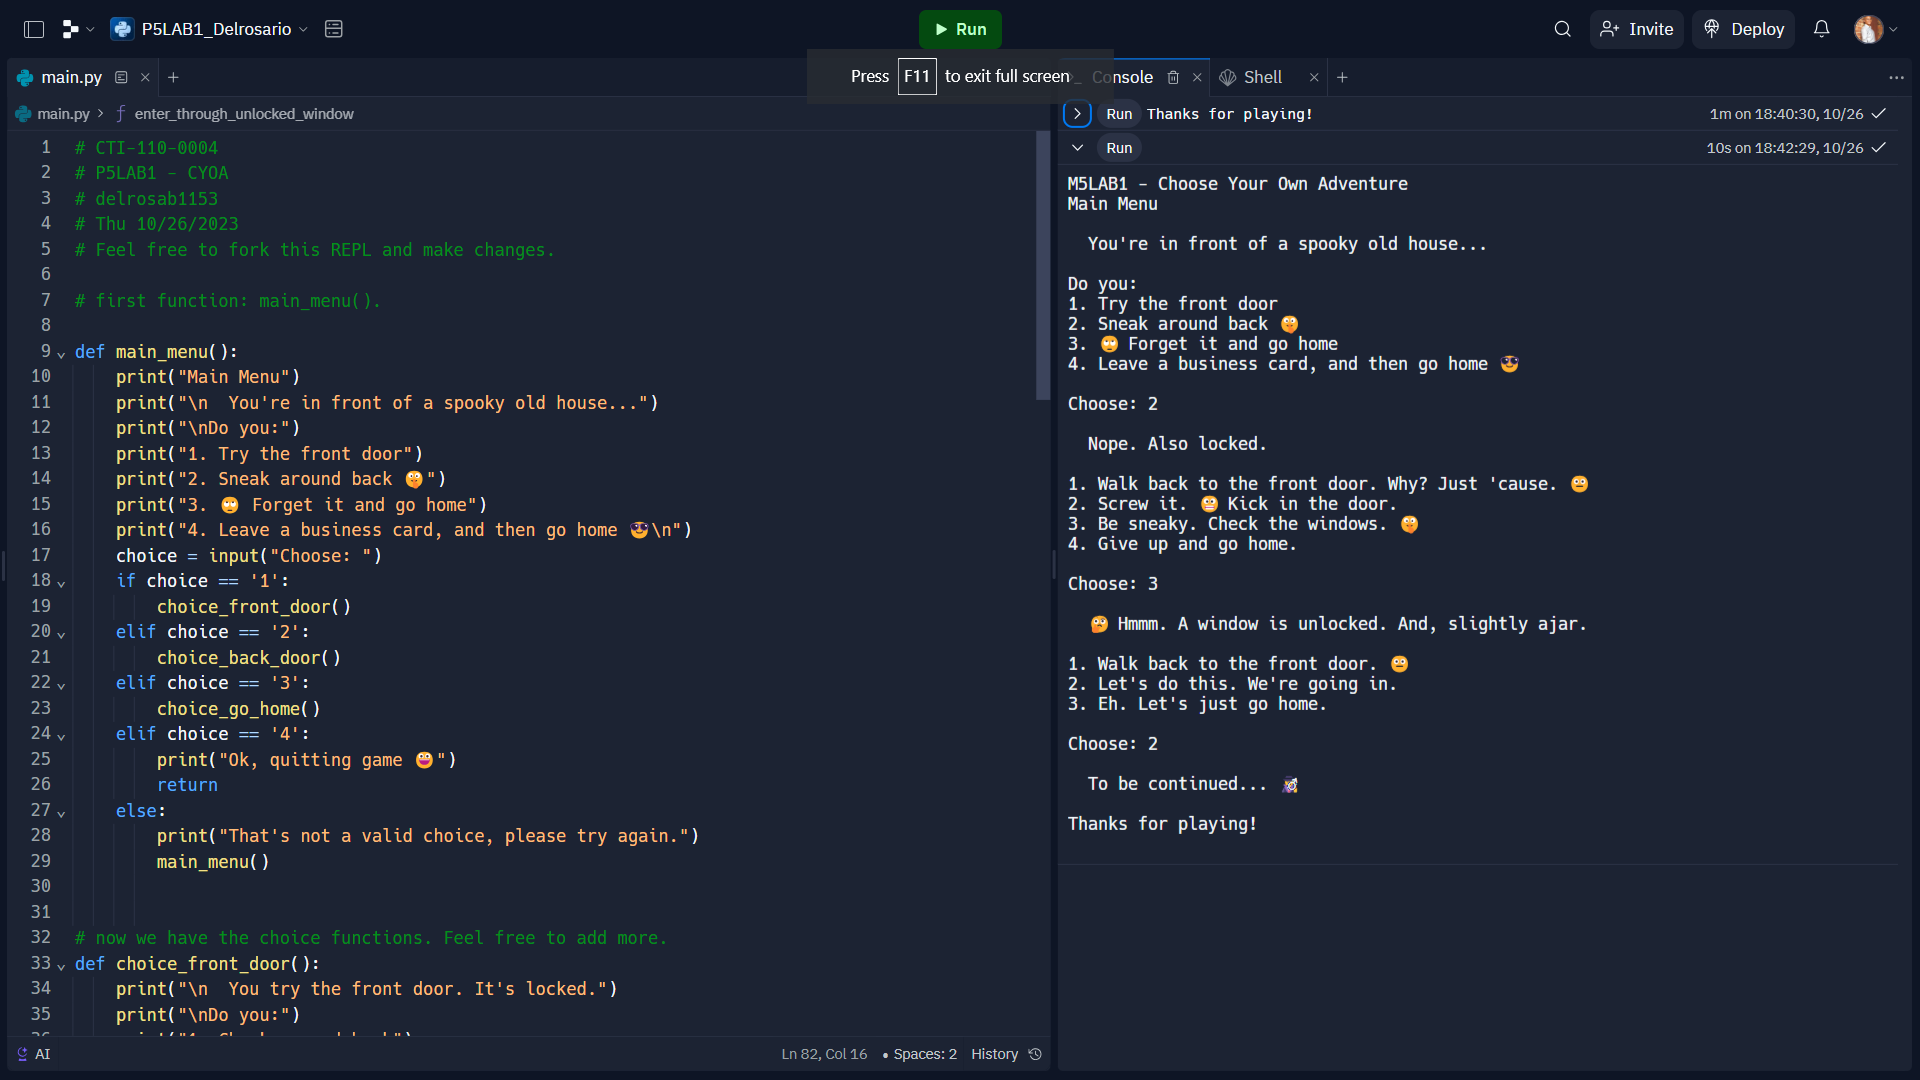
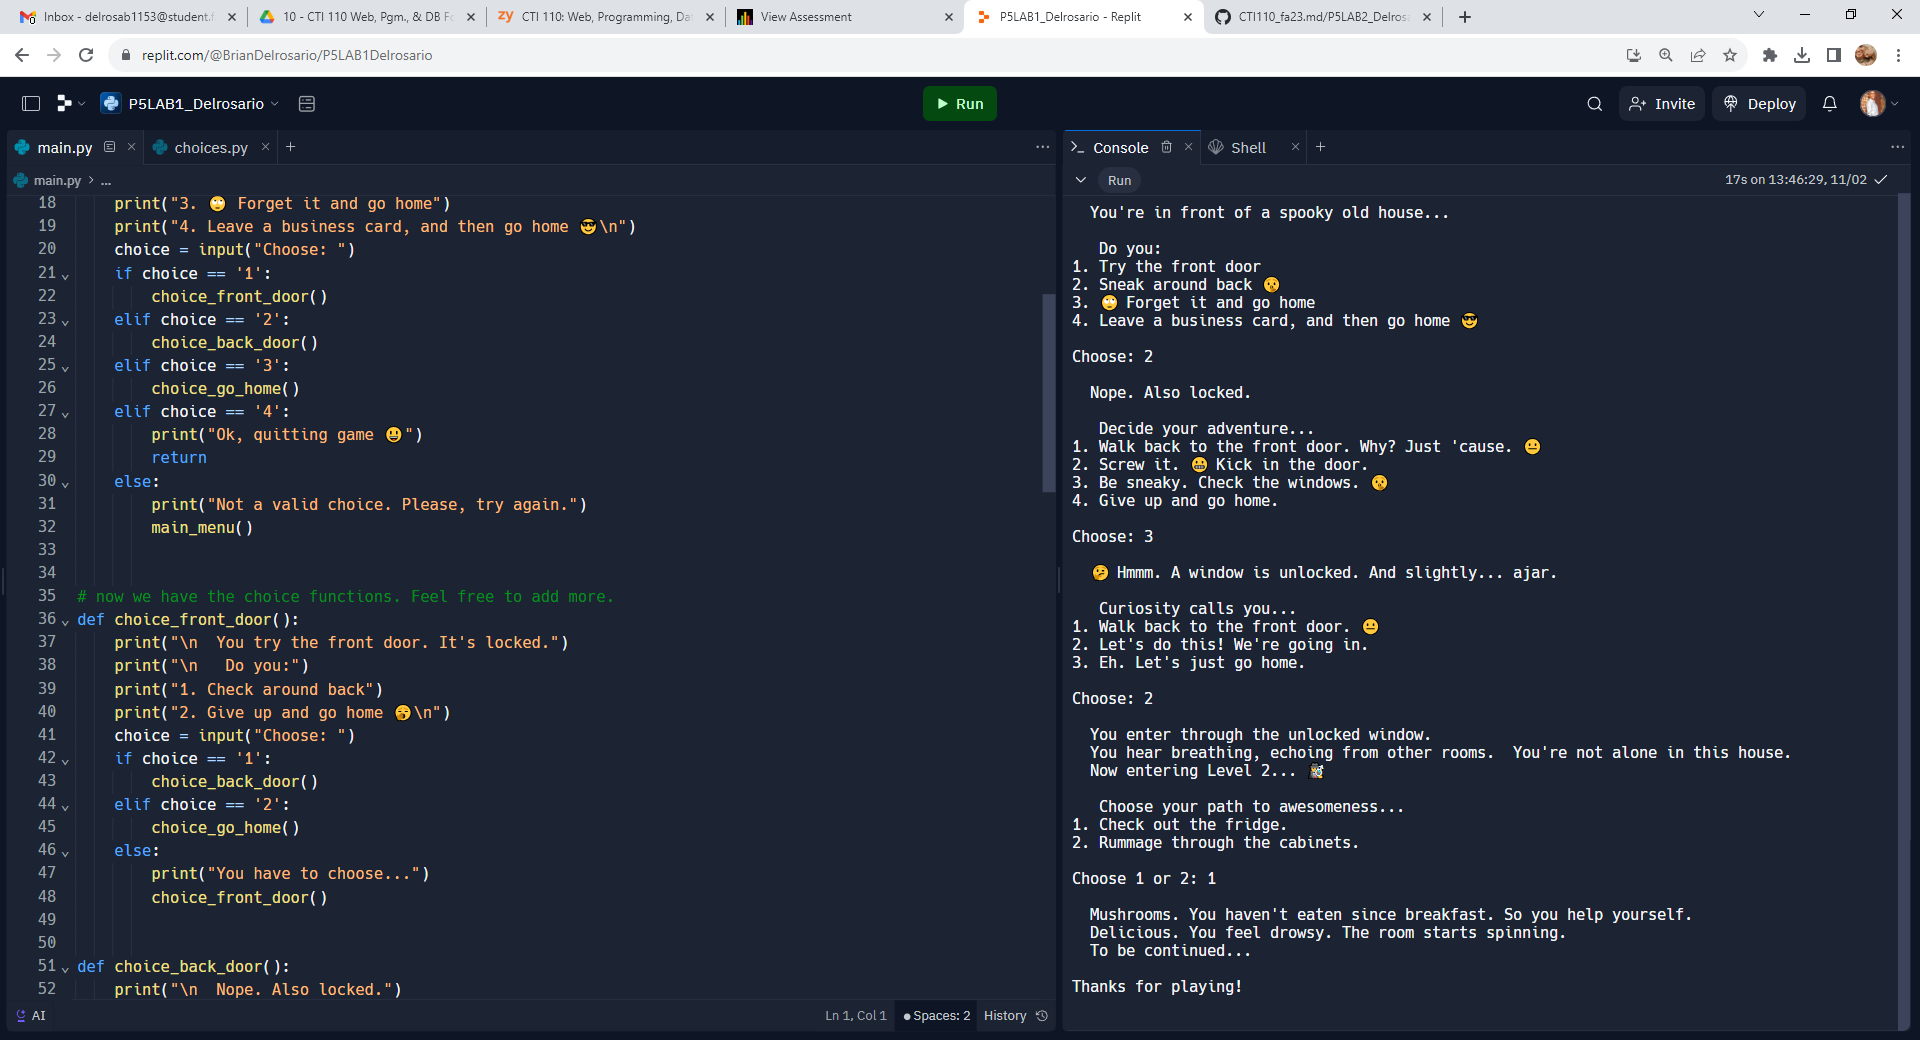
Choose your own adventure

diff --git a/P5LAB1_Delrosario.py b/P5LAB1_Delrosario.py
@@ -6,10 +6,13 @@
 
 # first function: main_menu().
 
+from choices import *
+
+
 def main_menu():
     print("Main Menu")
     print("\n  You're in front of a spooky old house...")
-    print("\nDo you:")
+    print("\n   Do you:")
     print("1. Try the front door")
     print("2. Sneak around back 🤫")
     print("3. 🙄 Forget it and go home")
@@ -25,14 +28,14 @@ def main_menu():
         print("Ok, quitting game 😃")
         return
     else:
-        print("That's not a valid choice, please try again.")
+        print("Not a valid choice. Please, try again.")
         main_menu()
 
 
 # now we have the choice functions. Feel free to add more.
 def choice_front_door():
     print("\n  You try the front door. It's locked.")
-    print("\nDo you:")
+    print("\n   Do you:")
     print("1. Check around back")
     print("2. Give up and go home 🥱\n")
     choice = input("Choose: ")
@@ -47,7 +50,8 @@ def choice_front_door():
 
 def choice_back_door():
     print("\n  Nope. Also locked.")
-    print("\n1. Walk back to the front door. Why? Just 'cause. 😐")
+    print("\n   Decide your adventure...")
+    print("1. Walk back to the front door. Why? Just 'cause. 😐")
     print("2. Screw it. 😬 Kick in the door.")
     print("3. Be sneaky. Check the windows. 🤫")
     print("4. Give up and go home.\n")
@@ -55,17 +59,19 @@ def choice_back_door():
     if choice == '1':
         choice_front_door()
     elif choice == '2':
-        print("\n  Werewolves jump out at you!\n\n  ...You negotiate for repairs.😕 In exchange for them agreeing not to sue, you agree to pay for the repairs and go home.  Whew!\n")
+        print("\n  Werewolves jump out at you!\n\n  ...You negotiate for repairs.😕 In exchange for them agreeing not to sue, you agree to pay for the repairs and go home.")
     elif choice == '3':
         sneak_in_through_window()
     else:
-        choice_go_home()
+        print("Choose from the list.")
+        choice_back_door()
 
 
 def sneak_in_through_window():
-    print("\n  🤔 Hmmm. A window is unlocked. And, slightly ajar.")
-    print("\n1. Walk back to the front door. 😐")
-    print("2. Let's do this. We're going in.")
+    print("\n  🤔 Hmmm. A window is unlocked. And slightly... ajar.")
+    print("\n   Curiosity calls you...")
+    print("1. Walk back to the front door. 😐")
+    print("2. Let's do this! We're going in.")
     print("3. Eh. Let's just go home.\n")
     choice = input("Choose: ")
     if choice == '1':
@@ -75,12 +81,26 @@ def sneak_in_through_window():
     elif choice == '3':
         choice_go_home()
     else:
-        choice_go_home()
+        print("Choose from the list.")
+        sneak_in_through_window()
+
 
 # One way to get into the house 
 def enter_through_unlocked_window():
-    print("\n  To be continued... 🕵♂")
-    
+    print("\n  You enter through the unlocked window.")
+    print("  You hear breathing, echoing from other rooms.  You're not alone in this house.")
+    print("  Now entering Level 2... 🕵♂")
+        
+    choice = choice_menu("Check out the fridge.", "Rummage through the cabinets.")
+    if choice == "1": # Fridge
+      print("\n  Mushrooms. You haven't eaten since breakfast. So you help yourself.")
+      print("  Delicious. You feel drowsy. The room starts spinning.")
+      print("  To be continued...")
+      
+    elif choice == "2": # Cabinets
+      print("\n  The first cabinet you open has only one item, a key.")
+      print("  You take the key. You hear steps approaching.")
+      print("  To be continued...")
 
 
 def choice_go_home():
